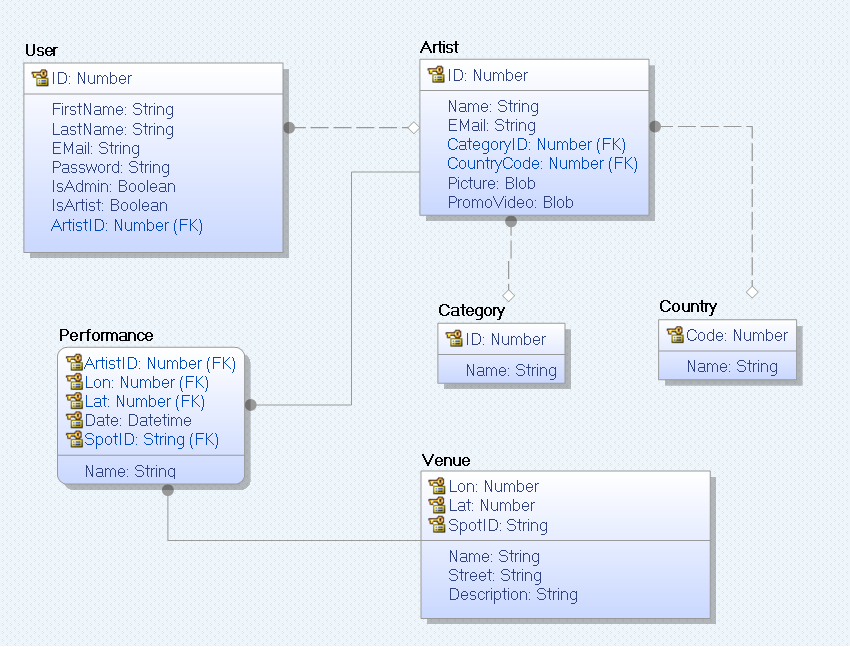
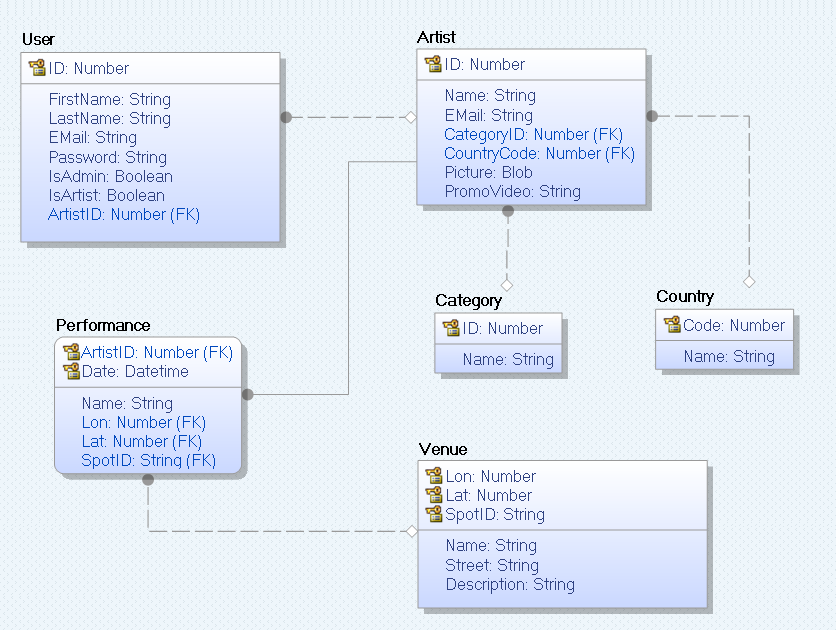
Renewed the entity model. Created DAO classes for the Database access.

diff --git a/UFO.Server/UFO.Server.Dal.MySql/Database.cs b/UFO.Server/UFO.Server.Dal.MySql/Database.cs
@@ -1,0 +1,132 @@
+using System;
+using System.Data;
+using System.Data.Common;
+using System.Data.SqlClient;
+using System.Transactions;
+using UFO.Server.Dal.Common;
+
+namespace UFO.Server.Dal.MySql
+{
+    public class Database : IDatabase
+    {
+        private readonly string _connectionString;
+
+        public Database(string connectionString)
+        {
+            this._connectionString = connectionString;
+        }
+
+        public DbCommand CreateCommand(string commandText)
+        {
+            return new SqlCommand(commandText);
+        }
+
+        public int DeclareParameter(DbCommand command, string name, DbType type)
+        {
+            if (!command.Parameters.Contains(name))
+            {
+                return command.Parameters.Add(new SqlParameter(name, type));
+            }
+
+            throw new ArgumentException($"Parameter {name} already exists");
+        }
+
+        public void SetParameter(DbCommand command, string name, object value)
+        {
+            if (command.Parameters.Contains(name))
+            {
+                command.Parameters[name].Value = value;
+            }
+            throw new ArgumentException($"Parameter {name} is not declared");
+        }
+
+        public void DefineParameter(DbCommand command, string name, DbType type, object value)
+        {
+            int paramIndex = DeclareParameter(command, name, type);
+            command.Parameters[paramIndex].Value = value;
+        }
+
+        public IDataReader ExecuteReader(DbCommand command)
+        {
+            DbConnection connection = null;
+            try
+            {
+                connection = GetOpenConnection();
+                command.Connection = connection;
+
+                // let the reader close the connection only if it is not shared
+                var behavior = Transaction.Current == null ? 
+                    CommandBehavior.CloseConnection : 
+                    CommandBehavior.Default;
+
+                return command.ExecuteReader(behavior);
+            }
+            catch
+            {
+                ReleaseConnection(connection);
+                throw;
+            }
+        }
+
+        public int ExecuteNonQuery(DbCommand command)
+        {
+            DbConnection connection = null;
+            try
+            {
+                connection = GetOpenConnection();
+                command.Connection = connection;
+                return command.ExecuteNonQuery();
+            }
+            finally
+            {
+                ReleaseConnection(connection);
+            }
+        }
+
+        #region connection management
+
+        [ThreadStatic]
+        private static DbConnection _sharedConnection;
+
+        private DbConnection CreateOpenConnection()
+        {
+            SqlConnection connection = new SqlConnection(_connectionString);
+            connection.Open();
+            return connection;
+        }
+
+        private DbConnection GetOpenConnection()
+        {
+            Transaction currentTransaction = Transaction.Current;
+
+            if (currentTransaction == null)
+            {
+                return CreateOpenConnection();
+            }
+
+            if (_sharedConnection == null)
+            {
+                _sharedConnection = CreateOpenConnection();
+                currentTransaction.TransactionCompleted += 
+                    (s, e) =>  
+                    {
+                        _sharedConnection.Close();
+                        _sharedConnection = null;
+                    };
+            }
+
+            return _sharedConnection;
+        }
+
+        private void ReleaseConnection(DbConnection connection)
+        {
+            // close connection if no transaction is active
+            if (connection != null && Transaction.Current == null)
+            {
+                connection.Close();
+            }
+        }
+
+        #endregion
+    }
+}

diff --git a/UFO.Server/UFO.Server.Dal.MySql/DbUserDao.cs b/UFO.Server/UFO.Server.Dal.MySql/DbUserDao.cs
@@ -11,14 +11,18 @@ namespace UFO.Server.Dal.MySql
     {
         public DaoResponse<User> UpdateUserCredentials(User user)
         {
-            throw new NotImplementedException();
+            using (var connection = DbCommProviderFactory.CreateDbConnection())
+            using (var command = DbCommProviderFactory.CreateDbCommand(connection, @"UPDATE user SET FirstName=@FirstName WHERE ID=@ID"))
+            {
+                
+            }
         }
 
         public IList<User> GetAllUsers()
         {
             var users = new List<User>();
-            using (DbConnection connection = DbCommProviderFactory.CreateDbConnection())
-            using (IDbCommand command = DbCommProviderFactory.CreateDbCommand(connection, "SELECT * FROM user"))
+            using (var connection = DbCommProviderFactory.CreateDbConnection())
+            using (var command = DbCommProviderFactory.CreateDbCommand(connection, @"SELECT * FROM user"))
             using (IDataReader dataReader = command.ExecuteReader())
             {
                 while (dataReader.Read())

diff --git a/UFO.Server/UFO.Server.Dal.MySql/DbArtistDao.cs b/UFO.Server/UFO.Server.Dal.MySql/DbArtistDao.cs
@@ -1,0 +1,35 @@
+using System;
+using System.Collections.Generic;
+using UFO.Server.Dal.Common;
+using UFO.Server.Domain;
+
+namespace UFO.Server.Dal.MySql
+{
+    public class DbArtistDao : IArtistDao
+    {
+        public DaoResponse<Artist> DeleteArtist(Artist artist)
+        {
+            throw new NotImplementedException();
+        }
+
+        public IList<Artist> GetAllArtists()
+        {
+            throw new NotImplementedException();
+        }
+
+        public IList<Artist> GetArtists<T>(T criteria, Filter<Artist, T> filter)
+        {
+            throw new NotImplementedException();
+        }
+
+        public DaoResponse<Artist> InsertArtist(Artist artist)
+        {
+            throw new NotImplementedException();
+        }
+
+        public DaoResponse<Artist> UpdateArtist(Artist artist)
+        {
+            throw new NotImplementedException();
+        }
+    }
+}

diff --git a/UFO.Server/UFO.Server.Dal.MySql/DbDaoProviderFactory.cs b/UFO.Server/UFO.Server.Dal.MySql/DbDaoProviderFactory.cs
@@ -5,19 +5,21 @@ namespace UFO.Server.Dal.MySql
 {
     class DbDaoProviderFactory : IDaoProviderFactory
     {
+        
+
         public IAgendaDao CreateAgendaDao()
         {
-            throw new NotImplementedException();
+            return new DbAgendaDao();
         }
 
         public IArtistDao CreateArtistDao()
         {
-            throw new NotImplementedException();
+            return new DbArtistDao();
         }
 
         public IPerformanceDao CreatePerformanceDao()
         {
-            throw new NotImplementedException();
+            return new DbPerformanceDao();
         }
 
         public IUserDao CreateUserDao()
@@ -27,7 +29,7 @@ namespace UFO.Server.Dal.MySql
 
         public IVenueDao CreateVenueDao()
         {
-            throw new NotImplementedException();
+            return new DbVenueDao();
         }
     }
 }

diff --git a/UFO.Server/UFO.Server.Dal.MySql/DbVenueDao.cs b/UFO.Server/UFO.Server.Dal.MySql/DbVenueDao.cs
@@ -1,0 +1,32 @@
+using System;
+using System.Collections.Generic;
+using System.Runtime.Serialization;
+using UFO.Server.Dal.Common;
+using UFO.Server.Domain;
+
+namespace UFO.Server.Dal.MySql
+{
+    [Serializable]
+    public class DbVenueDao : IVenueDao
+    {
+        public DaoResponse<Venue> InsertVenue(Venue venue)
+        {
+            throw new NotImplementedException();
+        }
+
+        public DaoResponse<Venue> UpdateVenue(Venue venue)
+        {
+            throw new NotImplementedException();
+        }
+
+        public IList<Venue> GetAllVenues()
+        {
+            throw new NotImplementedException();
+        }
+
+        public IList<Venue> GetVenues<T>(T criteria, Filter<Venue, T> filter)
+        {
+            throw new NotImplementedException();
+        }
+    }
+}

diff --git a/UFO.Server/UFO.Server.Dal.Common/DaoResponse.cs b/UFO.Server/UFO.Server.Dal.Common/DaoResponse.cs
@@ -8,6 +8,10 @@
         Unknown
     }
 
+    /// <summary>
+    /// DAO Interface response wrapper object holding status information, possible occurred 
+    /// error messages and/or the resulting typed object.
+    /// </summary>
     public class DaoResponse
     {
         public DaoStatus ResponseStatus { get; set; } = DaoStatus.Unknown;
@@ -17,8 +21,12 @@
         public object ResultObject { get; set; }
     }
 
-    public class DaoResponse<T> : DaoResponse
+    /// <summary>
+    /// Typed DAO Interface response wrapper object.
+    /// </summary>
+    /// <typeparam name="TDaoType"></typeparam>
+    public class DaoResponse<TDaoType> : DaoResponse
     {
-        public new T ResultObject { get; set; }
+        public new TDaoType ResultObject { get; set; }
     }
 }

diff --git a/UFO.Server/UFO.Server.Dal.MySql/DbCommProviderFactory.cs b/UFO.Server/UFO.Server.Dal.MySql/DbCommProviderFactory.cs
@@ -14,12 +14,14 @@ namespace UFO.Server.Dal.MySql
             return connection;
         }
 
-        public static IDbCommand CreateDbCommand(DbConnection connection, string queryText)
+        public static DbCommand CreateDbCommand(DbConnection connection, string queryText, DbParameter parameter = null)
         {
-            IDbCommand command = connection.CreateCommand();
+            DbCommand command = connection.CreateCommand();
             command.CommandText = queryText;
             command.Connection = connection;
             command.CommandType = CommandType.Text;
+            if (parameter != null)
+                command.Parameters.Add(parameter);
             return command;
         }
     }

diff --git a/UFO.Server/UFO.Server.Dal.MySql/DbPerformanceDao.cs b/UFO.Server/UFO.Server.Dal.MySql/DbPerformanceDao.cs
@@ -1,0 +1,24 @@
+using System.Collections.Generic;
+using UFO.Server.Dal.Common;
+using UFO.Server.Domain;
+
+namespace UFO.Server.Dal.MySql
+{
+    public class DbPerformanceDao : IPerformanceDao
+    {
+        public DaoResponse<Performance> UpdatePerformance(Performance performance)
+        {
+            throw new System.NotImplementedException();
+        }
+
+        public IList<Performance> GetAllPerformances()
+        {
+            throw new System.NotImplementedException();
+        }
+
+        public IList<Performance> GetPerformances<T>(T criteria, Filter<Performance, T> filter)
+        {
+            throw new System.NotImplementedException();
+        }
+    }
+}

diff --git a/UFO.Server/UFO.Server.Dal.MySql/DbAgendaDao.cs b/UFO.Server/UFO.Server.Dal.MySql/DbAgendaDao.cs
@@ -1,0 +1,27 @@
+using System;
+using System.Collections.Generic;
+using System.Runtime.Serialization;
+using UFO.Server.Dal.Common;
+using UFO.Server.Domain;
+
+namespace UFO.Server.Dal.MySql
+{
+    [Serializable]
+    public class DbAgendaDao : IAgendaDao
+    {
+        public DaoResponse<Agenda> InsertAgenda(Agenda agenda)
+        {
+            throw new NotImplementedException();
+        }
+
+        public IList<Agenda> GetAllAgendas()
+        {
+            throw new NotImplementedException();
+        }
+
+        public IList<Agenda> GetAgendas<T>(T criteria, Filter<Agenda, T> filter)
+        {
+            throw new NotImplementedException();
+        }
+    }
+}

diff --git a/UFO.Server/UFO.Server.Test/ServerTests.cs b/UFO.Server/UFO.Server.Test/ServerTests.cs
@@ -33,12 +33,9 @@ namespace UFO.Server.Test
         #region DAO Tests
 
         [TestMethod]
-        public void TestDaoDummyProvider()
+        public void TestDaoDefaultProvider()
         {
-            IDaoProviderFactory daoProviderFactory = DaoProviderFactories.GetFactory(
-                TestDummyDaoAssembly,
-                TestDummyDaoNameSpace,
-                TestDummyDaoClassName);
+            IDaoProviderFactory daoProviderFactory = DaoProviderFactories.GetFactory();
             Assert.IsNotNull(daoProviderFactory);
         }
         

diff --git a/UFO.Server/UFO.Server.Dal.Common/IDatabase.cs b/UFO.Server/UFO.Server.Dal.Common/IDatabase.cs
@@ -1,0 +1,16 @@
+using System.Data;
+using System.Data.Common;
+
+namespace UFO.Server.Dal.Common
+{
+    public interface IDatabase
+    {
+        DbCommand CreateCommand(string commandText);
+        int DeclareParameter(DbCommand command, string name, DbType type);
+        void SetParameter(DbCommand command, string name, object value);
+        void DefineParameter(DbCommand command, string name, DbType type, object value);
+
+        IDataReader ExecuteReader(DbCommand command);
+        int ExecuteNonQuery(DbCommand command);
+    }
+}

diff --git a/UFO.Server/UFO.Server.Domain/Artist.cs b/UFO.Server/UFO.Server.Domain/Artist.cs
@@ -20,9 +20,9 @@ namespace UFO.Server.Domain
 
         public Country Country { get; set; }
 
-        public BinDataStream Picture { get; set; }
+        public BlobData Picture { get; set; }
 
-        public BinDataStream PromoVideo { get; set; }
+        public string PromoVideo { get; set; }
 
         public ISet<User> ArtistList => new HashSet<User>();
     }
